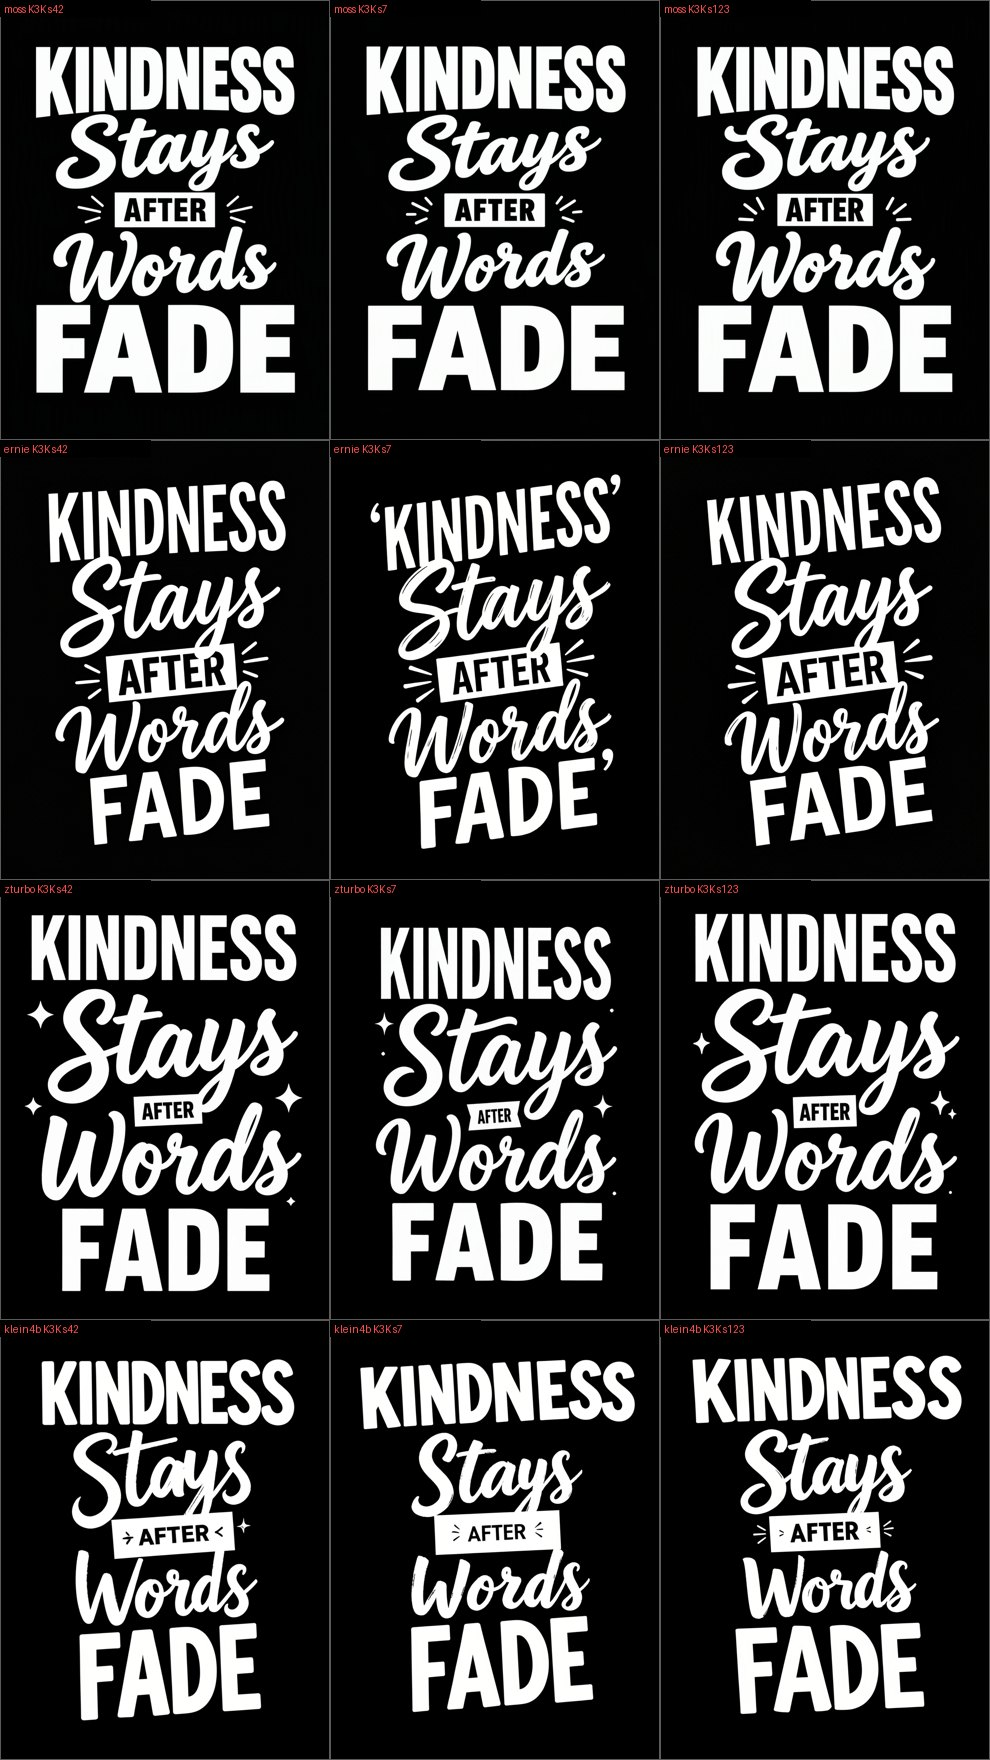
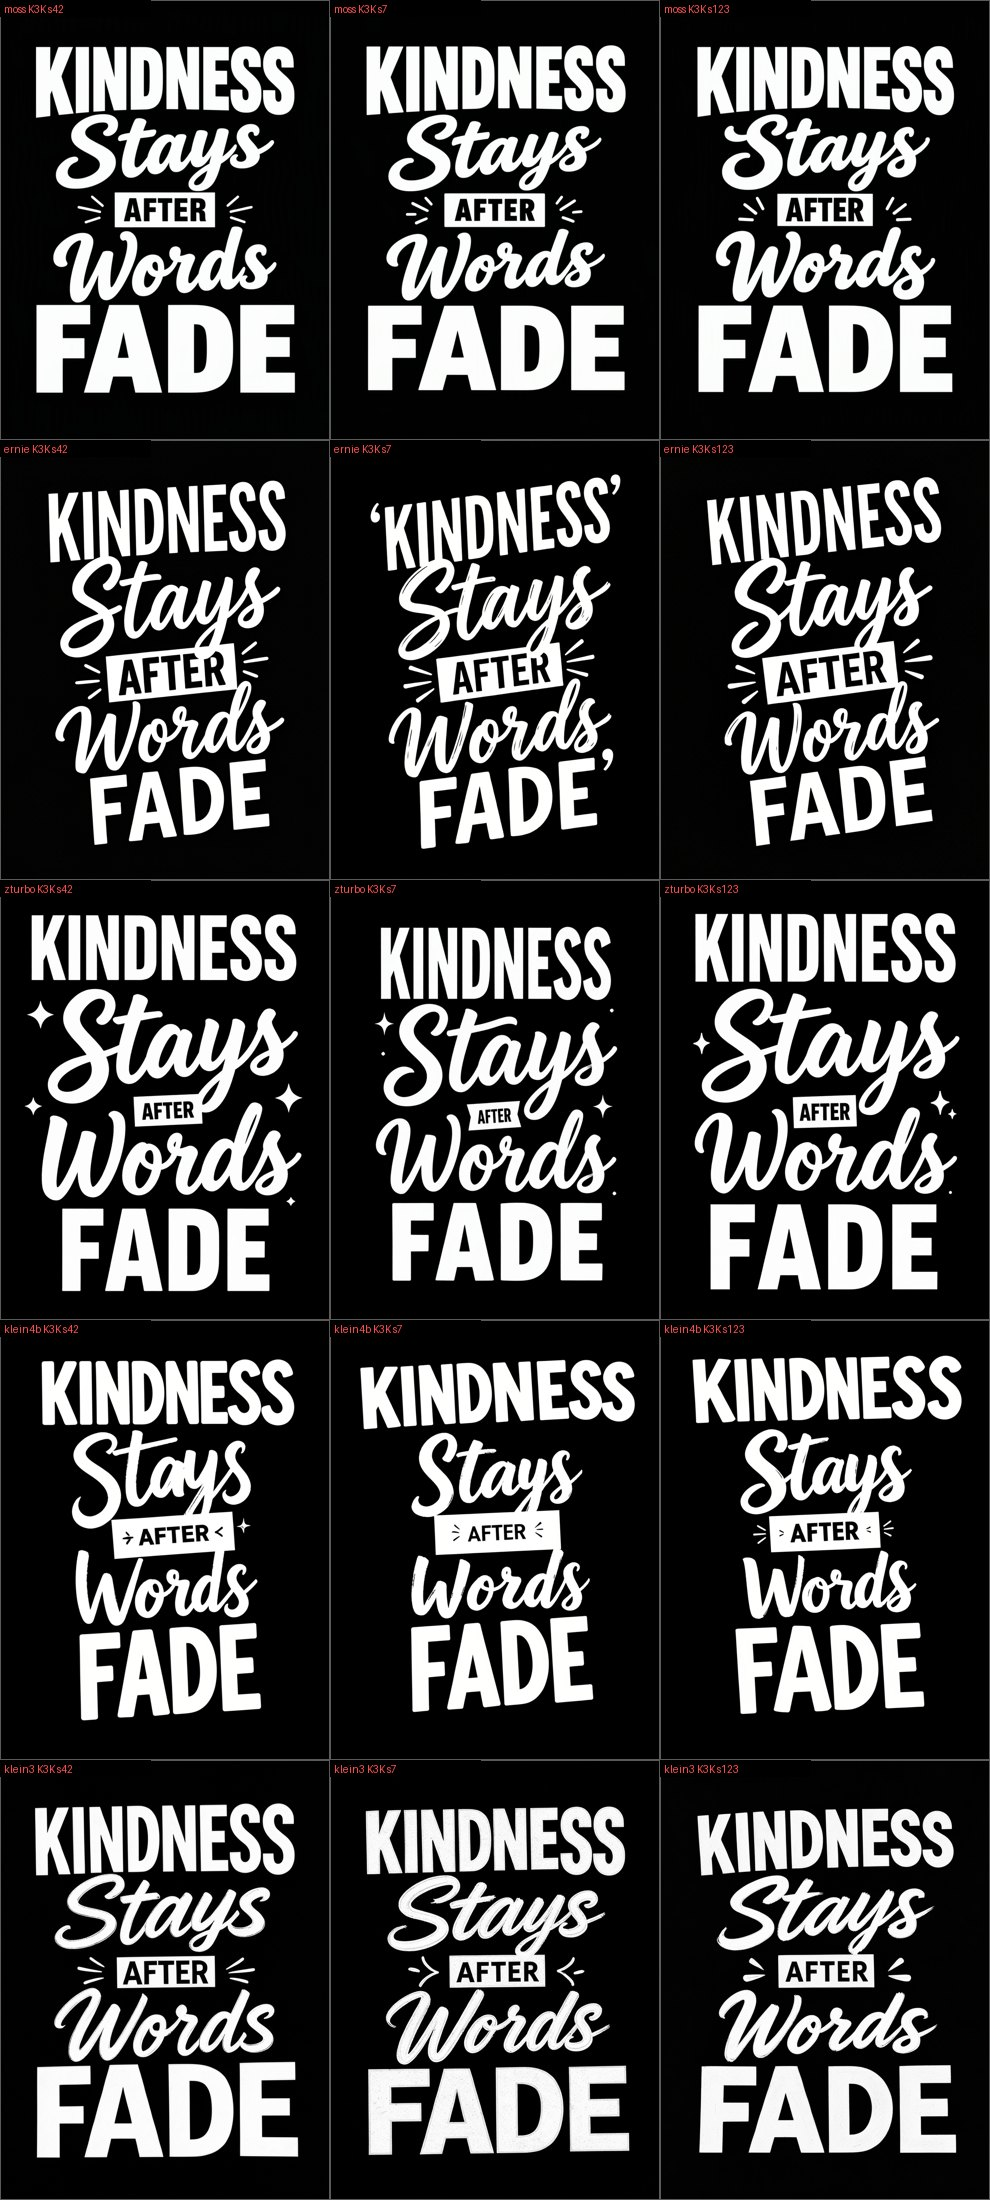
Lettering v1.2 overnight run: FLUX 3 Image Klein on CPU (9 images, 9/9 pass G1-G2), 5b corrections; QC cycle round 1 variants prepared
Claude-Session: https://claude.ai/code/session_015DB7PEjvbF6jwZiFcnohYg

diff --git a/designs/lettering-v1/pembina.py b/designs/lettering-v1/pembina.py
@@ -11,6 +11,7 @@ Guna: python3 pembina.py                 -> semak semua kad x ayat x model (3.11
 """
 import difflib
 import json
+import os
 import re
 import sys
 
@@ -40,6 +41,11 @@ DAFTAR = {
 REV = {k: v["rev"] for k, v in DAFTAR.items()}
 MODEL = list(REV)
 W, H = 768, 1024
+# Ubahan CALON kitaran QC (langkah 5): hanya hidup bila dinamakan dalam PEMBINA_UJI (dipisah koma). Ubahan yang
+# berjaya ditulis balik ke aturan (rev naik) dan dibuang dari sini; yang gagal dicatat dan dibuang.
+#   zturbo_satu_baris: baris berbilang perkataan ditulis "... as N words side by side on one line" (Z-Image x K8:
+#   'KEEP GOING' dipisah jadi dua baris pada 3/3 seed, 26 Nov 2026).
+UJI = {u for u in os.environ.get("PEMBINA_UJI", "").split(",") if u}
 SATU = ["one", "two", "three", "four", "five", "six", "seven", "eight", "nine", "ten", "eleven", "twelve"]
 KE = ["first", "second", "third", "fourth", "fifth", "sixth"]
 FUNGSI = {"utama": "title", "sokongan": "supporting line", "penyambung": "connecting word"}
@@ -159,7 +165,9 @@ def zturbo(m):
             if l is m["sisi"]:
                 t += f'; {b["sisi"]["frasa"]} sit on each side of the {l["nama"]}'
         else:
-            t = f'Line {SATU[l["i"]]}{p} reads "{l["q"]}" in {frasa(l, lambda d: f" as line {SATU[d]}")}'
+            sebaris = (f' as {SATU[len(l["q"].split()) - 1]} words side by side on one line'
+                       if "zturbo_satu_baris" in UJI and " " in l["q"] else "")
+            t = f'Line {SATU[l["i"]]}{p} reads "{l["q"]}"{sebaris} in {frasa(l, lambda d: f" as line {SATU[d]}")}'
         s.append(t + (", and it is the tallest line of the poster." if l["tertinggi"] else "."))
     s += tambahan(b)
     s.append(f"The only text in the image is these {SATU[m['nw'] - 1]} words, each appearing once. The image uses "

diff --git a/designs/lettering-v1/kad.py b/designs/lettering-v1/kad.py
@@ -45,6 +45,10 @@ AYAT = {
               baris=[("Make", "sokongan"), ("Room", "utama"), ("for", "penyambung"), ("Wonder", "utama")]),
     "G": dict(nama="sederhana", laluan=2, ayat="Keep Going You Are Almost There",
               baris=[("Keep Going", "sokongan"), ("You Are", "penyambung"), ("Almost", "utama"), ("There", "sokongan")]),
+    # Kitaran QC pusingan 1 (26 Nov 2026), MOSS x K8 sahaja: 'ALMOST' salah eja pada 3/3 seed. Ubahan tunggal ikut
+    # jadual kitaran QC: tukar peranan perkataan itu (Almost: utama -> sokongan; There: sokongan -> utama). Ayat sama.
+    "J": dict(nama="sederhana", laluan=2, ayat="Keep Going You Are Almost There",
+              baris=[("Keep Going", "sokongan"), ("You Are", "penyambung"), ("Almost", "sokongan"), ("There", "utama")]),
 }
 
 # Langkah 1: Kad Gaya. huruf[peranan] = (kes, frasa bentuk huruf, nama warna untuk prompt)
